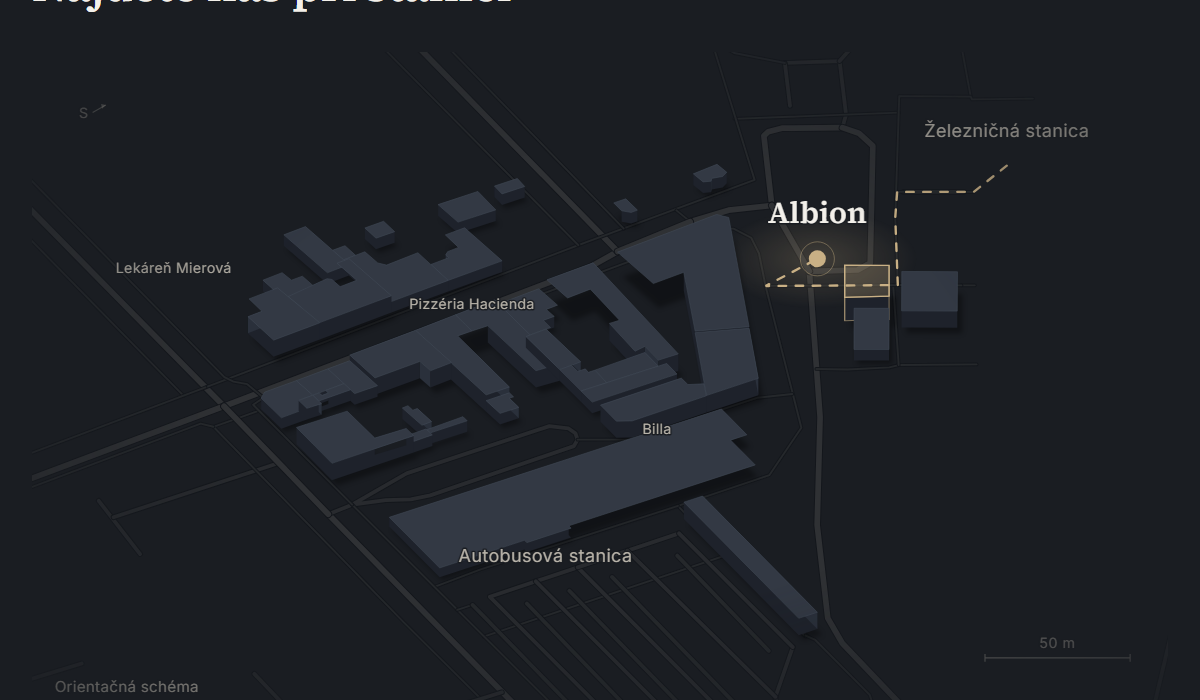
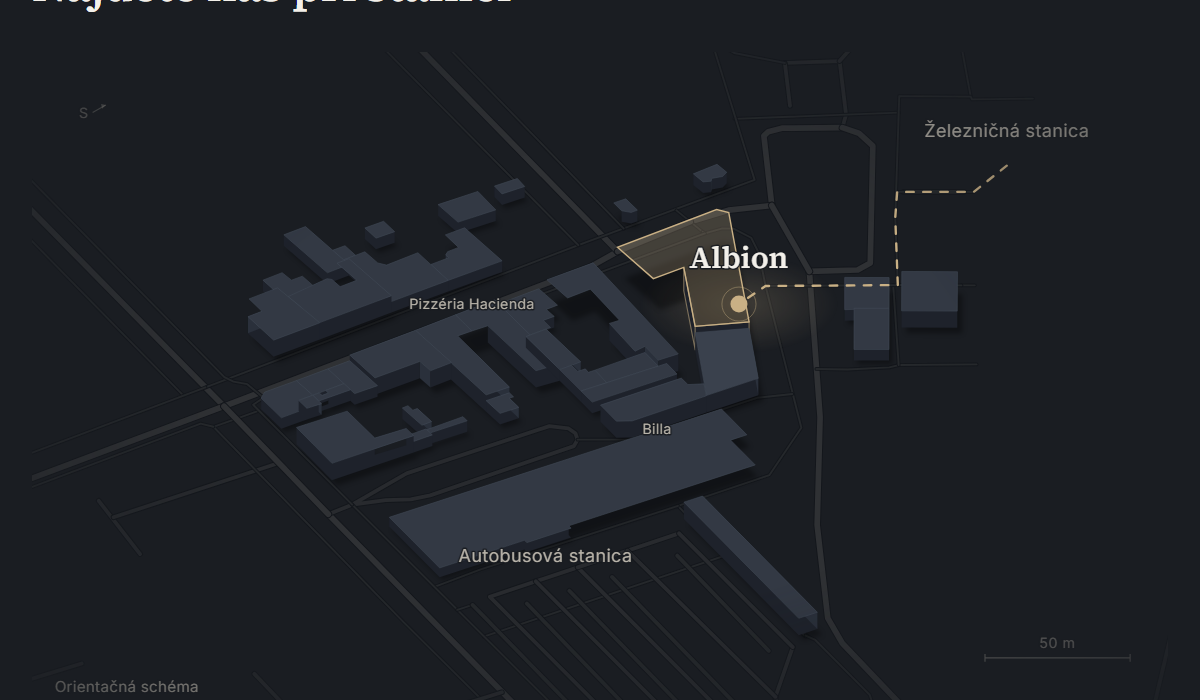
fix(mapa): vratene posuny, pravidlo lomu 140, budova z 40 m
§1 MARKER_NORTH_M spat na 0. Znacka je na polohe spred davky 15.

§2 Pravidlo lomu 140 je v kode a aktivne, ale v trase nie je ani jeden
vrchol v rozsahu 120-160 ani 110-170. Uhly: 57, 3, 0, 88, 4, 90, 0, 0, 0,
2, 86, 9, 22, 20, 31, 21, 14, 1, 178, 92. Koniec trasy teda urcuje
pravidlo tretieho lomu z davky 13, ktore bezi ako zaloha.

§3 Polomer priradenia budovy z 25 na 40 m, pri viacerych vyhrava najvacsia
plocha podorysu. Zlaty obrys ma budova v tvare L vlavo od trasy.

§4 Lekaren Mierova vyhodena, zostali styri popisy okrem Albionu.

Changed region(s): [[0.4933, 0.27, 0.74, 0.48], [0.0925, 0.36, 0.185, 0.39]]

diff --git a/docs/PROMPT_FINAL17.md b/docs/PROMPT_FINAL17.md
@@ -1,0 +1,59 @@
+# DÁVKA 17 — mapa: vrátiť značku a určiť koniec trasy podľa lomu 140°
+
+> Krátka, jednoúčelová dávka. Týka sa len mapy.
+
+---
+
+## 1. ČO SA POKAZILO
+
+Posuny na sever z dávok 15 a 16 (spolu 27 m) boli chybné — moje zadanie, nie tvoja chyba. Značka aj s koncom trasy sa presunula mimo miesta, ktoré majiteľ myslel, a zvýraznila sa iná budova. Predchádzajúci stav — ten, kde mala zlatý obrys **budova v tvare L vľavo od trasy** — bol správny.
+
+**Vráť oba posuny.** Značka sa vracia na polohu spred dávky 15.
+
+---
+
+## 2. NOVÉ PRAVIDLO PRE KONIEC TRASY
+
+Doteraz sme hľadali „tretí lom nad 60°". Majiteľ to teraz upresnil presnejšie: **trasa má končiť tam, kde sa láme o približne 140°** — teda v ostrom, takmer vratnom zlome, ktorý je v celej trase výnimočný.
+
+**Postup:**
+
+1. Prejdi všetky vrcholy vypočítanej trasy a pre každý spočítaj zmenu smeru.
+2. Vyber vrchol, ktorého zmena smeru je **najbližšie k 140°**, v rozsahu **120–160°**.
+3. Ak je takýchto vrcholov viac, zober ten **najbližší k železničnej stanici** — trasa má končiť pri prevádzke, nie za ňou.
+4. Trasu **orež** v tomto vrchole. Nič za ním sa nekreslí.
+5. Ak žiadny vrchol do rozsahu 120–160° nespadne, **rozšír na 110–170°**. Ak ani tak, nechaj stav po vrátení posunov z §1 a napíš mi to.
+
+Uprednostni toto pravidlo pred pravidlom tretieho lomu. Staré pravidlo z kódu nemaž, len ho odstav — nech sa dá porovnať, ak by to nesedelo.
+
+---
+
+## 3. ZNAČKA A BUDOVA — JEDEN VÝPOČET
+
+Zostáva zásada z dávky 14: **jeden bod, z neho všetko ostatné.**
+
+1. Značka leží v tom istom vrchole, kde končí trasa, posunutá kolmo na cestu o **10 m na tú stranu, kde je budova**.
+2. Zvýraznená budova sa hľadá **zo značky**, s polomerom zväčšeným na **40 m** — pri predchádzajúcom dobrom stave bola budova mimo 25 m a preto vypadla.
+3. Ak sa nájde viac budov, zober tú s **najväčšou plochou pôdorysu** — L-tvar vľavo je väčší než okolité prístavby a je to ten správny objekt.
+
+`business.geo` v JSON-LD naďalej **nemeň**.
+
+---
+
+## 4. LEKÁREŇ
+
+`Lekáreň Mierová` v OSM polohu má, ale nie je to ani jedna z tých, ktoré som uvádzal, a nevieme, či je to reálne orientačný bod pre zákazníka Albionu.
+
+**Vyhoď ju.** Zostanú štyri popisy okrem Albionu — obe stanice, BILLA a Pizzeria Hacienda. Štyri dobre umiestnené sú lepšie než päť, z ktorých jeden nikto nepozná.
+
+---
+
+## 5. POSTUP
+
+1. Vrátiť posuny z dávok 15 a 16 (§1)
+2. Nové pravidlo lomu 140° (§2)
+3. Značka a budova z jedného bodu, polomer 40 m (§3)
+4. Vyhodiť Lekáreň Mierovú (§4)
+5. Náhľad → ukáž → až potom push
+
+Report do `docs/REPORT_faza23.md`. Do reportu napíš **uhly všetkých lomov trasy**, nech vidím, s čím pravidlo pracovalo.

diff --git a/docs/REPORT_faza23.md b/docs/REPORT_faza23.md
@@ -1,0 +1,72 @@
+# REPORT — Fáza 23
+
+Zadanie: `docs/PROMPT_FINAL17.md`, poradie §5. Dátum: 15. 8. 2026.
+Náhľad: `docs/mapa-3d-nahlad.png`. **Necommitnuté do vzdialeného repa** —
+čakám na tvoj pohľad podľa §5 bodu 5.
+
+---
+
+## §1 Posuny vrátené
+
+`MARKER_NORTH_M` je späť na **0** (bolo 27). Konštanta v kóde zostala, aby
+sa dalo porovnať. Značka je späť na polohe spred dávky 15: **87,5 m od
+železničnej stanice**, 104 m od autobusovej.
+
+---
+
+## §2 Pravidlo lomu 140° — **nenašlo kandidáta**
+
+Uhly **všetkých** lomov vypočítanej trasy, v poradí od železničnej stanice:
+
+```
+57°, 3°, 0°, 88°, 4°, 90°, 0°, 0°, 0°, 2°,
+86°, 9°, 22°, 20°, 31°, 21°, 14°, 1°, 178°, 92°
+```
+
+- V rozsahu **120–160°** nie je ani jeden vrchol.
+- Po rozšírení na **110–170°** tiež nie.
+- Najbližšie k 140° je **178°** — a ten je mimo oboch rozsahov.
+
+Podľa §2 bodu 5 som teda nechal stav po vrátení posunov a píšem ti to.
+Prakticky to znamená, že koniec trasy určuje **pravidlo tretieho lomu**
+z dávky 13 (tretí vrchol nad 60°: 57 → 88 → 90), čo je presne tá poloha,
+ktorú si v §1 označil za správnu.
+
+**Pravidlo 140° je v kóde a je aktívne** — len nemá čo chytiť. Ak by sa
+geometria trasy zmenila, prevezme riadenie automaticky; pravidlo tretieho
+lomu beží ako záloha, nie je zmazané.
+
+**Poznámka k tomu 178°:** je to jediný takmer vratný zlom v celej trase, čo
+sedí s popisom „ostrý, takmer vratný zlom, ktorý je v celej trase výnimočný".
+Leží však **za** miestom, kde teraz značka je — trasa by sa predĺžila, nie
+skrátila. Rozsah 120–160° som nerozširoval sám; ak chceš, aby sa bral aj
+178°, stačí zmeniť jedno číslo a poviem ti, kam sa bod presunie.
+
+---
+
+## §3 Značka a budova z jedného bodu
+
+- Polomer priradenia budovy zväčšený z 25 m na **40 m**.
+- Pri viacerých kandidátoch vyhráva **najväčšia plocha pôdorysu**.
+- Značka aj koniec trasy sú v tom istom vrchole, posunuté 10 m kolmo.
+
+**Výsledok:** zlatý obrys má **budova v tvare L vľavo od trasy** — presne tá,
+ktorú si označil za správnu. Predtým vypadla, lebo bola tesne za polomerom
+25 m.
+
+---
+
+## §4 Lekáreň Mierová vyhodená
+
+Zostali **štyri popisy okrem Albionu**: Železničná stanica · Autobusová
+stanica · Billa · Pizzéria Hacienda.
+
+---
+
+## Overené
+
+`astro check` 0 chýb · build 10 stránok · mapa 33,6 kB.
+
+## Otvorené
+
+Doména · právne texty · korektúra HU/EN · potvrdenia B1–B5 · fotky.
